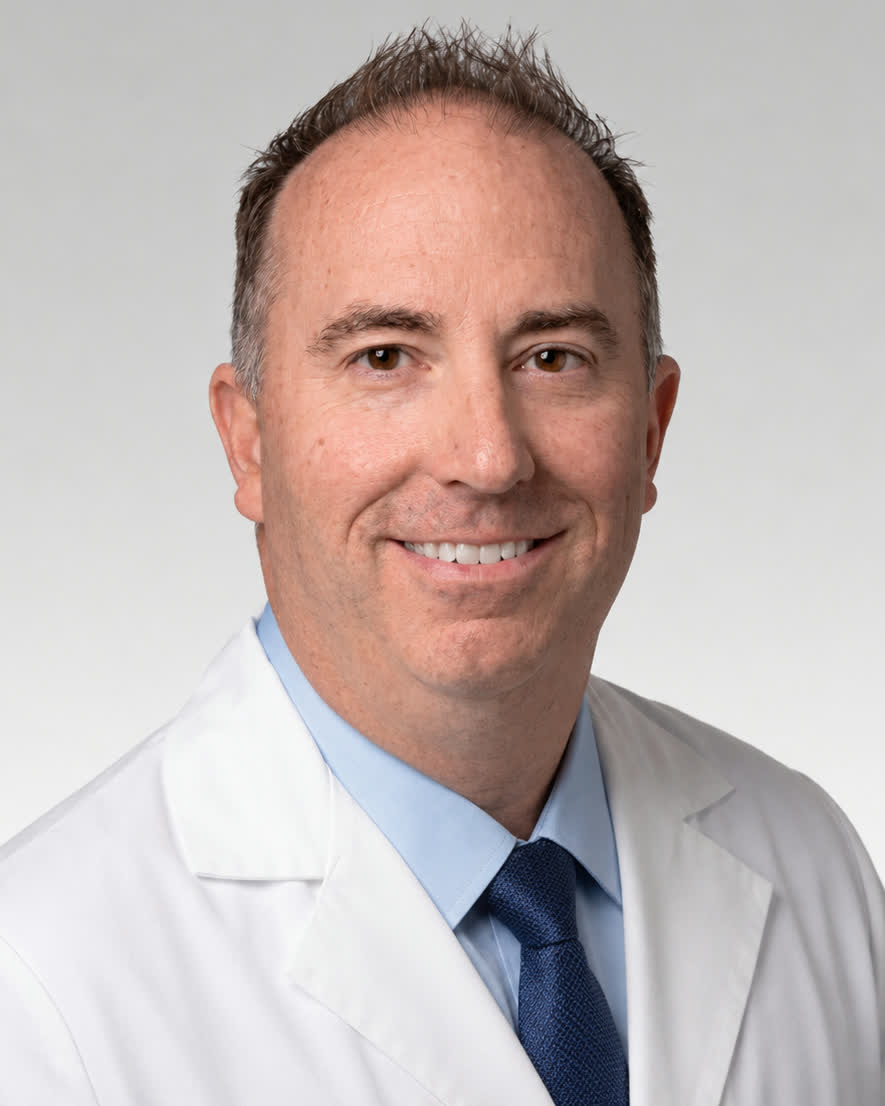
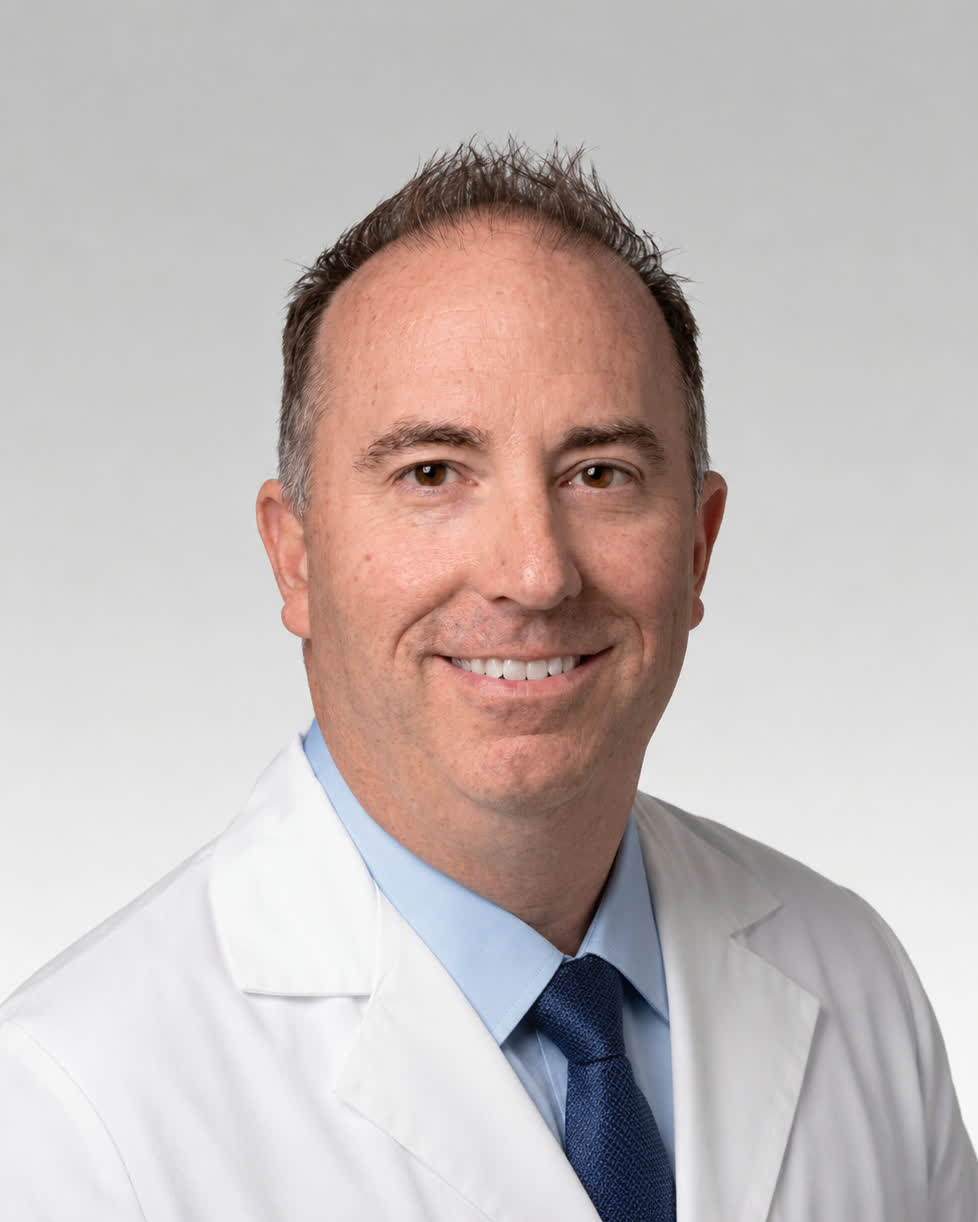
Add top padding to Nathan Conroy and Anthony Leazzo photos to match Jeff Floyd's framing

diff --git a/app/our-providers/page.tsx b/app/our-providers/page.tsx
@@ -105,8 +105,8 @@ const PROVIDERS = [
     image: {
       src: "/images/providers/nathan-conroy-zoom.jpg",
       alt: "Nathan Conroy, DC, Chiropractic & Physical Medicine at Genesis Integrative Medicine",
-      width: 1272,
-      height: 1590,
+      width: 1358,
+      height: 1698,
     },
     bio: [
       "Nathan Conroy, DC, is certain that a healthy spine is key to a long, happy life. At Genesis Integrative Medicine in Geneva, Illinois, Dr. Conroy, DC, offers a variety of services to improve his patients\u2019 physical and overall health without medications or surgery. Inspired by his grandfather, a medical doctor, he pursued his degree in chiropractic care because of the many benefits chiropractic adjustments offer to the body. He brings over 15 years of experience in chiropractic care to Genesis Integrative Medicine.",
@@ -136,8 +136,8 @@ const PROVIDERS = [
     image: {
       src: "/images/providers/anthony-leazzo-new.jpg",
       alt: "Dr. Anthony Leazzo, DO, Clinic Director at Genesis Integrative Medicine",
-      width: 885,
-      height: 1106,
+      width: 978,
+      height: 1222,
     },
     bio: [
       "As Clinic Director and a Doctor of Osteopathic Medicine, Dr. Anthony Leazzo, DO, leads the medical team at Genesis Integrative Medicine with a simple philosophy: rather than treat every ill with a pill, consider the benefits of an integrative approach to achieving a happy, pain-free life.",
